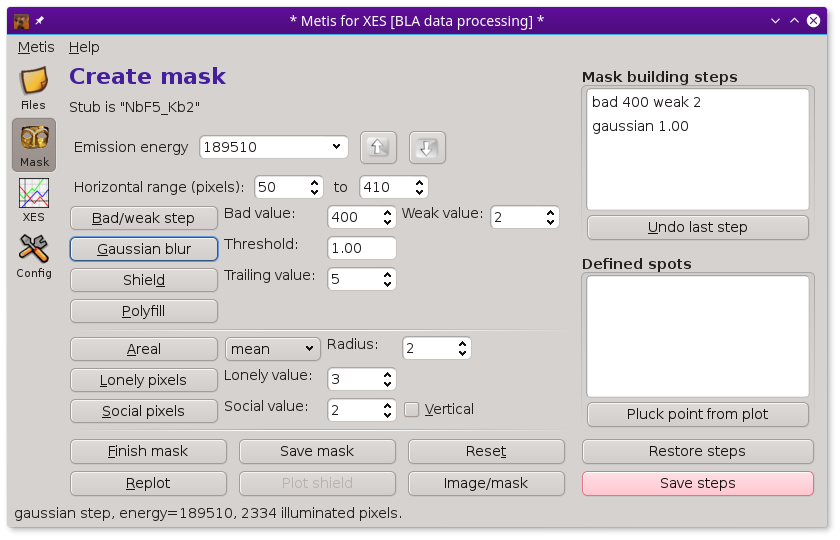
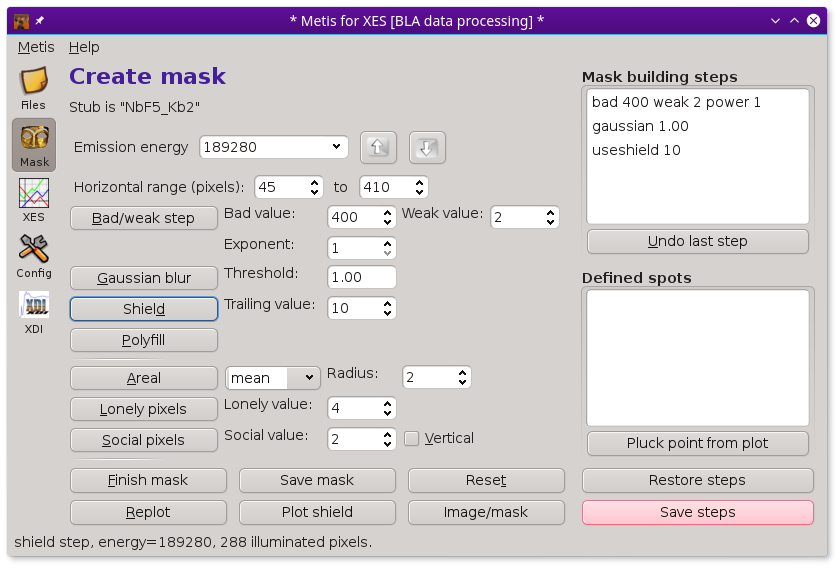
exponentiation of bad/weak image

Changed region(s): [[0.0, 0.0, 0.9905, 0.9778], [0.681, 0.1185, 0.9595, 0.2963], [0.7119, 0.4741, 0.9595, 0.5333]]

diff --git a/doc/bla/mask.rst b/doc/bla/mask.rst
@@ -24,10 +24,14 @@ Recommended steps
 
 **Bad and weak pixel removal**
 
-   The syntax is ``bad # weak #``. The first number indicates the
-   value above which a pixel is assumed to be a bad pixel.  The second
-   number is the value below which a pixel is considered weak.  Both
-   bad and weak pixels are removed from the mask.
+   The syntax is ``bad # weak # power #``. The first number indicates
+   the value above which a pixel is assumed to be a bad pixel.  The
+   second number is the value below which a pixel is considered weak.
+   Both bad and weak pixels are removed from the mask.  The third
+   number is the power to which the mask will be raised before
+   continuing with the mask processing.  This step happens *after* the
+   bad and weak pixels are removed.  The point of the exponential is
+   to enhance contrast when the elastic scattering is weak. 
 
 **Gaussian blur**
 
@@ -104,7 +108,7 @@ A recipe using these steps might be:
 
    [steps]
    steps = <<END
-   bad 400 weak 0
+   bad 400 weak 0 power 1
    gaussian 1.3
    useshield 18
    polyfill
@@ -155,7 +159,7 @@ A recipe using these might be:
 
    [steps]
    steps = <<END
-   bad 400 weak 2
+   bad 400 weak 2 power 1
    lonely 3
    social 2
    END

diff --git a/doc/metis/mask.rst b/doc/metis/mask.rst
@@ -121,6 +121,16 @@ to the right of the upper value will be set to zero, thus eliminating
 any spurious points from any mask that might make it through any of
 the mask creation steps.
 
+Finally, the :guilabel:`Exponent` control is used to set the value for
+the exponent used to raise the elastic image to some power.  This is
+done after the bad and weak pixels are removed.  The point of this is
+to enhance the contrast in the case of weak elastic scattering.  When
+you have a strong elastic signal, an exponent of 1 should suffice.
+Note that changing the changing the exponent value will have an effect
+on the appropriate value of the Gaussian threshold, described below.
+
+
+
 The Gaussian blur step
 ----------------------
 
@@ -554,7 +564,7 @@ of `the Files tool <files.html>`_.
    :width: 0.3
    :label: _fig-ptrxes
 
-The recipe for these masks is bad/weak with parameters 400/1, a
+The recipe for these masks is bad/weak with parameters 400/1/1, a
 Gaussian blur filter with a threshold of 6.0, and a shield step with a
 parameter of 5.  That is, the masks from 5 steps back and prior are
 used to construct the shield which removes the fluorescence signal
